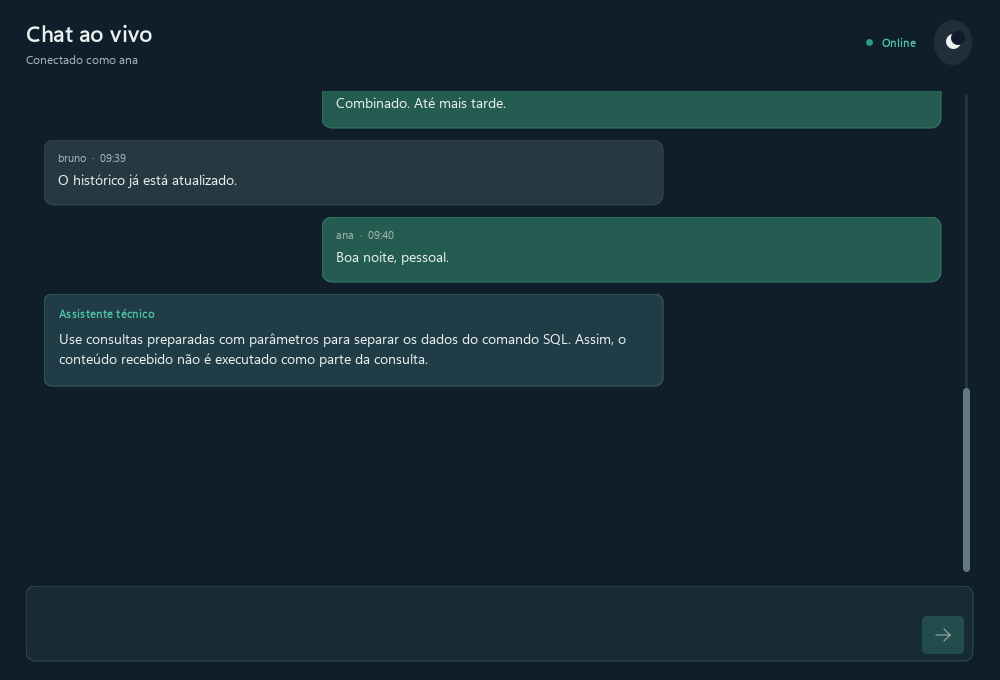
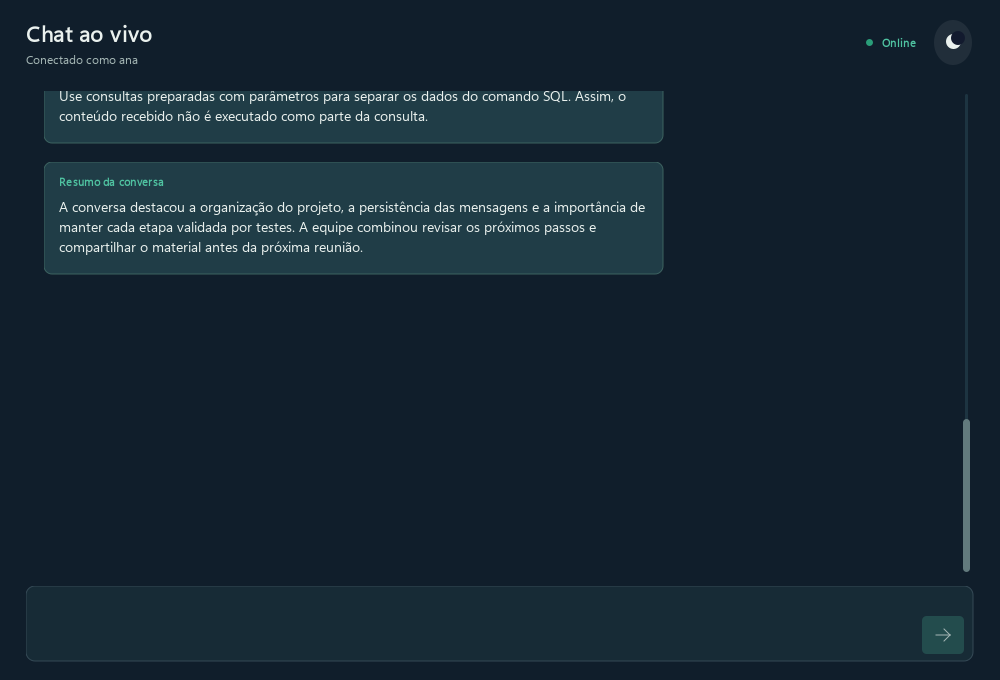
Melhora leitura do resumo do histórico

Changed region(s): [[0.031, 0.1235, 0.961, 0.5868], [0.961, 0.5559, 0.992, 0.6176]]

diff --git a/src/test/java/br/unicesumar/chat/client/gui/ListaMensagensVisualTest.java b/src/test/java/br/unicesumar/chat/client/gui/ListaMensagensVisualTest.java
@@ -51,6 +51,29 @@ class ListaMensagensVisualTest {
                 "a resposta deve ocupar o estado vazio da conversa");
     }
 
+    @Test
+    void resumoDoHistoricoTemCartaoProprioComTextoSelecionavelEQuebrado() throws Exception {
+        String resumo = "A conversa apresentou os principais pontos do projeto, incluindo "
+                + "persistência, organização das tarefas e próximos passos para a equipe.";
+        AtomicReference<JTextArea> corpo = new AtomicReference<>();
+        AtomicReference<JLabel> vazio = new AtomicReference<>();
+        SwingUtilities.invokeAndWait(() -> {
+            ListaMensagens lista = new ListaMensagens("ana", new Animacao());
+            lista.adicionar(br.unicesumar.chat.client.LinhaServidor.interpretar("* Resumo: " + resumo));
+            localizarTextoIniciandoCom(lista, resumo, corpo);
+            localizarRotulo(lista, "Diga olá", vazio);
+        });
+
+        assertNotNull(corpo.get(), "o resumo deve aparecer em um cartão de texto longo");
+        assertEquals(resumo, corpo.get().getText());
+        assertEquals("Resumo da conversa", corpo.get().getAccessibleContext().getAccessibleName());
+        assertTrue(corpo.get().getLineWrap());
+        assertTrue(corpo.get().getWrapStyleWord());
+        assertFalse(corpo.get().isEditable());
+        org.junit.jupiter.api.Assertions.assertNull(vazio.get(),
+                "o resumo deve substituir o estado vazio da conversa");
+    }
+
     private void localizarBarra(Component componente, AtomicReference<JScrollBar> barra) {
         if (componente instanceof JScrollPane painel) barra.set(painel.getVerticalScrollBar());
         if (componente instanceof Container recipiente) {
@@ -64,6 +87,14 @@ class ListaMensagensVisualTest {
         }
         if (componente instanceof Container recipiente) {
             for (Component filho : recipiente.getComponents()) localizarTexto(filho, texto);
+        }
+    }
+
+    private void localizarTextoIniciandoCom(Component componente, String inicio,
+                                             AtomicReference<JTextArea> texto) {
+        if (componente instanceof JTextArea area && area.getText().startsWith(inicio)) texto.set(area);
+        if (componente instanceof Container recipiente) {
+            for (Component filho : recipiente.getComponents()) localizarTextoIniciandoCom(filho, inicio, texto);
         }
     }
 

diff --git a/src/main/java/br/unicesumar/chat/client/gui/ListaMensagens.java b/src/main/java/br/unicesumar/chat/client/gui/ListaMensagens.java
@@ -23,6 +23,7 @@ import java.util.Deque;
 /** Apresenta até 500 itens, respeita rolagem manual e anima a chegada/rolagem. */
 public final class ListaMensagens extends JPanel {
     private static final String PREFIXO_ASSISTENTE = "Assistente técnico: ";
+    private static final String PREFIXO_RESUMO = "Resumo: ";
     private final ModeloConversa modelo;
     private final Animacao animacao;
     private final JPanel itens = new JPanel();
@@ -110,7 +111,9 @@ public final class ListaMensagens extends JPanel {
         ModeloConversa.Item item = modelo.itens().getLast();
         boolean respostaAssistente = item.linha().tipo() == LinhaServidor.Tipo.SISTEMA
                 && item.linha().texto().startsWith(PREFIXO_ASSISTENTE);
-        if ((item.linha().tipo() == LinhaServidor.Tipo.MENSAGEM || respostaAssistente)
+        boolean respostaResumo = item.linha().tipo() == LinhaServidor.Tipo.SISTEMA
+                && item.linha().texto().startsWith(PREFIXO_RESUMO);
+        if ((item.linha().tipo() == LinhaServidor.Tipo.MENSAGEM || respostaAssistente || respostaResumo)
                 && vazio.getParent() == itens) itens.remove(vazio);
         JPanel componente = criarLinha(item);
         componentes.addLast(componente);
@@ -176,6 +179,13 @@ public final class ListaMensagens extends JPanel {
             resposta.setTemaClaro(temaClaro);
             linhaPainel.setLayout(new FlowLayout(FlowLayout.LEFT, 0, 5));
             linhaPainel.add(resposta);
+        } else if (linha.tipo() == LinhaServidor.Tipo.SISTEMA
+                && linha.texto().startsWith(PREFIXO_RESUMO)) {
+            RespostaAssistente resumo = new RespostaAssistente("Resumo da conversa", "Resumo da conversa",
+                    linha.texto().substring(PREFIXO_RESUMO.length()));
+            resumo.setTemaClaro(temaClaro);
+            linhaPainel.setLayout(new FlowLayout(FlowLayout.LEFT, 0, 5));
+            linhaPainel.add(resumo);
         } else {
             JLabel pílula = new JLabel(linha.texto());
             pílula.setFont(Tema.fonte(11, Font.PLAIN));

diff --git a/src/main/java/br/unicesumar/chat/client/gui/RespostaAssistente.java b/src/main/java/br/unicesumar/chat/client/gui/RespostaAssistente.java
@@ -12,13 +12,18 @@ import java.awt.Insets;
 
 /** Apresenta a resposta do assistente em um cartão com texto legível e copiável. */
 final class RespostaAssistente extends JPanel {
-    private final JLabel titulo = new JLabel("Assistente técnico");
+    private final JLabel titulo;
     private final JTextArea corpo;
     private boolean temaClaro;
     private int larguraMaxima = 620;
 
     RespostaAssistente(String resposta) {
+        this("Assistente técnico", "Resposta do assistente técnico", resposta);
+    }
+
+    RespostaAssistente(String textoTitulo, String nomeAcessivel, String resposta) {
         super(new BorderLayout(0, 7));
+        titulo = new JLabel(textoTitulo);
         setOpaque(false);
         setBorder(BorderFactory.createEmptyBorder(12, 15, 13, 15));
         titulo.setFont(Tema.fonte(11, Font.BOLD));
@@ -32,9 +37,9 @@ final class RespostaAssistente extends JPanel {
         corpo.setFocusable(true);
         corpo.setOpaque(false);
         corpo.setMargin(new Insets(0, 0, 0, 0));
-        corpo.getAccessibleContext().setAccessibleName("Resposta do assistente técnico");
+        corpo.getAccessibleContext().setAccessibleName(nomeAcessivel);
         add(corpo, BorderLayout.CENTER);
-        getAccessibleContext().setAccessibleName("Resposta do assistente técnico");
+        getAccessibleContext().setAccessibleName(nomeAcessivel);
         setToolTipText("Selecione o texto para copiá-lo");
         setLarguraMaxima(larguraMaxima);
         setTemaClaro(false);

diff --git a/src/test/java/br/unicesumar/chat/client/gui/CapturarTelas.java b/src/test/java/br/unicesumar/chat/client/gui/CapturarTelas.java
@@ -46,6 +46,10 @@ public final class CapturarTelas {
                 chat.adicionar(LinhaServidor.interpretar("* Assistente técnico: "
                         + "Use consultas preparadas com parâmetros para separar os dados do comando SQL. "
                         + "Assim, o conteúdo recebido não é executado como parte da consulta."));
+                chat.adicionar(LinhaServidor.interpretar("* Resumo: "
+                        + "A conversa destacou a organização do projeto, a persistência das mensagens e "
+                        + "a importância de manter cada etapa validada por testes. A equipe combinou "
+                        + "revisar os próximos passos e compartilhar o material antes da próxima reunião."));
                 salvar(chat, 1000, 680, destino.resolve("tela-chat.png"));
             } catch (Throwable excecao) {
                 falha.set(excecao);

diff --git a/docs/RELATORIO_DESENVOLVIMENTO.md b/docs/RELATORIO_DESENVOLVIMENTO.md
@@ -279,3 +279,20 @@ Formato de cada entrada (copie e preencha; mantenha curto):
 - **Testes:** `mvn -q test`: 82 testes, 0 falhas, 0 erros e 0 ignorados (65 unitários/visuais/arquitetura + 17 integrações).
 - **Decisão / concorrência:** a consulta JDBC que cria a cópia do histórico ocorre sob `ordemLock`; a chamada HTTP permanece fora do lock para não atrasar mensagens de outras conexões. Nenhuma outra funcionalidade foi alterada.
 - **Próximo passo:** termômetro do clima segue pendente; só implementar quando solicitado.
+
+### 2026-10-22 · Usabilidade visual do resumo `/historico`
+
+- **Causa:** `* Resumo: ...` era tratado como aviso genérico de sistema e desenhado em um `JLabel`, que não quebra linhas; por isso resumos longos ficavam ilegíveis.
+- **Alterado:** `ListaMensagens` encaminha respostas de resumo ao cartão visual com título “Resumo da conversa”, texto selecionável, quebra por palavras, largura adaptável e cores consistentes com os temas. O cartão também remove o estado vazio. `RespostaAssistente` agora permite definir título e nome acessível sem mudar o cartão do `/hacker`.
+- **Teste primeiro:** `ListaMensagensVisualTest.resumoDoHistoricoTemCartaoProprioComTextoSelecionavelEQuebrado` falhou inicialmente porque o resumo não era uma área de texto. Passou após a correção; valida corpo, acessibilidade, quebra automática, seleção somente leitura e remoção do estado vazio.
+- **Captura:** `docs/img/tela-chat.png` foi regenerada em modo headless e revisada; mostra o resumo em cartão com várias linhas.
+- **Arquivos:** `ListaMensagens`, `RespostaAssistente`, `ListaMensagensVisualTest`, `CapturarTelas`, `docs/img/tela-chat.png`, `docs/ESTADO.md` e este relatório.
+- **Testes:** teste visual direcionado passou; suíte completa pendente nesta execução.
+- **Escopo:** apresentação Swing apenas; protocolo, serviço e demais comandos não foram alterados.
+- **Próximo passo:** validar a suíte completa e confirmar o resultado no cliente GUI em execução.
+
+### 2026-10-22 · Verificação do cartão `/historico`
+
+- **Resultado:** `mvn -q test` passou com 83 testes, 0 falhas, 0 erros e 0 ignorados (66 unitários/visuais/arquitetura + 17 integrações). O comando exibiu avisos de envio em sockets fechados e de falhas simuladas nos testes; a suíte terminou com código 0.
+- **Revisão visual:** captura headless atualizada e revisada. O resumo longo aparece em cartão com quebra em três linhas, cabeçalho e contraste compatível com a identidade atual.
+- **Próximo passo:** reiniciar a interface Swing para carregar a versão atualizada e experimentar `/historico`.

diff --git a/docs/ESTADO.md b/docs/ESTADO.md
@@ -4,7 +4,7 @@
 
 **Atualizado em:** 2026-10-22 · **Fase atual:** resumo privado `/historico`
 **Marco "núcleo obrigatório completo":** ✅ atingido
-**Testes:** `mvn -q test` passou: 82 testes, 0 falhas, 0 erros, 0 ignorados (65 unitários/visuais/arquitetura + 17 integrações).
+**Testes:** `mvn -q test` passou: 83 testes, 0 falhas, 0 erros, 0 ignorados (66 unitários/visuais/arquitetura + 17 integrações).
 **Próximo passo:** implementar termômetro do clima quando solicitado.
 
 ## Requisitos obrigatórios
@@ -44,6 +44,7 @@ Vídeo com 3+ clientes: ⬜ responsabilidade do aluno. Marco de núcleo completo
 - Resumo: `ResumidorDeConversa`, `ResumidorGroq`; `/historico` e `/histórico` resumem até 50 mensagens recentes e respondem apenas ao solicitante. Histórico vazio responde sem chamar a IA; falhas geram aviso privado.
 - Assistente técnico: `AssistenteTecnico`, `AssistenteTecnicoGroq`; `/hacker <pergunta>` consulta o modelo configurado para orientação educativa/defensiva e responde apenas ao solicitante.
 - Interface `/hacker`: `ListaMensagens` apresenta a resposta em cartão próprio com largura adaptável, quebra automática, texto selecionável e cores para os temas claro/escuro (`ListaMensagensVisualTest`).
+- Interface `/historico`: `ListaMensagens` apresenta o resumo em cartão próprio com título, largura adaptável, quebra automática e texto selecionável; também substitui o estado vazio da conversa (`ListaMensagensVisualTest`).
 - Configuração de IA: `ConfiguracaoIA` lê `GROQ_API_KEY`; `ClienteGroq` centraliza HTTP e tratamento de rede, timeout e erros da API.
 - Falhas de resumo/assistente: exceções específicas geram aviso privado; outras conexões continuam ativas.
 - Testes da etapa: `ChatServiceTest`, `ResumidorGroqTest`, `ProtocoloTest` e `ServidorIntegracaoTest` cobrem limite de 50 mensagens, prompt geral, histórico vazio, aliases do comando, privacidade e falha controlada. `ResumidorFalso` evita rede nos testes de serviço.
